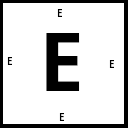
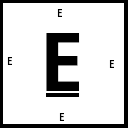
mirrors working

Changed region(s): [[0.3438, 0.7188, 0.625, 0.7812]]

diff --git a/main.js b/main.js
@@ -72,7 +72,9 @@ const rHALF = Math.PI / 2.0;
 
 const directions = [
   {
+    // N
     mov: [0, 0, +1],
+    mirr: [1, 1, -1],
     mask: 0b000001,
     oppo: 0b111101,
     front: 0,
@@ -85,7 +87,9 @@ const directions = [
     roty: 0,
   },
   {
+    // S
     mov: [0, 0, -1],
+    mirr: [1, 1, -1],
     mask: 0b000010,
     oppo: 0b111110,
     front: 1,
@@ -98,7 +102,9 @@ const directions = [
     roty: Math.PI,
   },
   {
+    // W
     mov: [+1, 0, 0],
+    mirr: [-1, 1, 1],
     mask: 0b000100,
     oppo: 0b110111,
     front: 2,
@@ -111,7 +117,9 @@ const directions = [
     roty: +rHALF,
   },
   {
+    // E
     mov: [-1, 0, 0],
+    mirr: [-1, 1, 1],
     mask: 0b001000,
     oppo: 0b111011,
     front: 3,
@@ -124,7 +132,9 @@ const directions = [
     roty: -rHALF,
   },
   {
+    // UP
     mov: [0, +1, 0],
+    mirr: [1, -1, 1],
     mask: 0b010000,
     oppo: 0b011111,
     front: 4,
@@ -137,7 +147,9 @@ const directions = [
     roty: 0,
   },
   {
+    // DW
     mov: [0, -1, 0],
+    mirr: [1, -1, 1],
     mask: 0b100000,
     oppo: 0b101111,
     front: 5,
@@ -171,7 +183,7 @@ let cameradir = 0,
 
 let selcells = new Map();
 
-function getmesh(wallindex, cellid, dir, xp, yp, zp, mx,my,mz) {
+function getmesh(wallindex, cellid, dir, xp, yp, zp, mx,my,mz, offset) {
   let pool = meshpool[wallindex];
   if (pool === undefined) {
     pool = [];
@@ -191,11 +203,11 @@ function getmesh(wallindex, cellid, dir, xp, yp, zp, mx,my,mz) {
     mesh.userData.dirmask = dir.mask;
     mesh.visible = true;
   }
-  mesh.rotation.x = mz * dir.rotx;
-  mesh.rotation.y = mz * dir.roty;
-  mesh.position.x = -xp - 0.50 * dir.mov[0];
-  mesh.position.y = -yp - 0.50 * dir.mov[1];
-  mesh.position.z = -zp - 0.50 * dir.mov[2];
+  mesh.rotation.x = mz * my * dir.rotx;
+  mesh.rotation.y = mz * mx * dir.roty;
+  mesh.position.x = -xp - offset * dir.mov[0] * mx;
+  mesh.position.y = -yp - offset * dir.mov[1] * my;
+  mesh.position.z = -zp - offset * dir.mov[2] * mz;
   mesh.scale.x = mx;
   mesh.scale.y = my;
   mesh.scale.z = mz;
@@ -204,26 +216,29 @@ function getmesh(wallindex, cellid, dir, xp, yp, zp, mx,my,mz) {
   return mesh;
 }
 
-function scan(scanvalue, cellid, energy, dirmask, xp=0, yp=0, zp=0, mx=1, my=1, mz=1) {
-  if (energy <= 0) return;
-  energy--;
+const ViewDistanceSquared = ViewDistance * ViewDistance;
+
+function scan(scanvalue, cellid, dirmask, xp = 0, yp = 0, zp = 0, mx = 1, my = 1, mz = 1) {
+  
+  if (xp * xp + yp * yp + zp * zp > ViewDistanceSquared) return;
+
   let cell = world[cellid];
   if (cell.scanvalue == scanvalue) return;
   cell.scanvalue = scanvalue;
   const selected = selcells.get(cellid);
 
-  //console.log('cell',cellid, 'energy', energy, 'dirmask', dirmask.toString(2), 'xp',xp,'yp',yp,'zp',zp);
+  //console.log('cell',cellid, 'dirmask', dirmask.toString(2), 'xp',xp,'yp',yp,'zp',zp);
 
   directions.forEach((dir, dirid) => {
     if (dirmask & dir.mask) {
       let wallindex = cell.w[dirid];
       if (wallindex != 0) {
         //console.log('cellid',cellid,'dirid',dirid,'wall',wallindex, 'walls',walls[wallindex]);
-        getmesh(wallindex, cellid, dir, xp, yp, zp,mx,my,mz).layers.enable(1);
+        getmesh(wallindex, cellid, dir, xp, yp, zp,mx,my,mz,0.5).layers.enable(1);
 
         /*
-        if (dirid == 4 && birdeye && energy < 10) {
-          const test = getmesh("number" + energy, cellid, dir, xp, yp, zp, mx, my, mz);
+        if (dirid == 4 && birdeye) {
+          const test = getmesh("number" + energy, cellid, dir, xp, yp, zp, mx, my, mz,0.48);
           test.position.y = -0.49;
           test.scale.x = 1 / 16;
           test.scale.y = 1 / 16;
@@ -231,7 +246,7 @@ function scan(scanvalue, cellid, energy, dirmask, xp=0, yp=0, zp=0, mx=1, my=1, 
         */
 
         if (selected !== undefined && selected & dir.mask) {
-          getmesh(0, cellid, dir, xp, yp, zp,mx,my,mz).layers.disable(1);
+          getmesh(0, cellid, dir, xp, yp, zp,mx,my,mz, 0.49).layers.disable(1);
         }
       }
       
@@ -241,10 +256,11 @@ function scan(scanvalue, cellid, energy, dirmask, xp=0, yp=0, zp=0, mx=1, my=1, 
       {
         nextcell = cellid;  
         nextscan = frame++;
-        nextmask = directions[dir.back].oppo;
-        if (dir.mov[0] != 0) nextmx *= -1;
-        else if (dir.mov[1] != 0) nextmy *= -1;
-        else if (dir.mov[2] != 0) nextmz *= -1;
+        const back = directions[dir.back];
+        nextmask = (dirmask & back.oppo) | back.mask ;
+        nextmx *= dir.mirr[0];
+        nextmy *= dir.mirr[1];
+        nextmz *= dir.mirr[2];
       }
       else
       {
@@ -258,7 +274,6 @@ function scan(scanvalue, cellid, energy, dirmask, xp=0, yp=0, zp=0, mx=1, my=1, 
         scan(
           nextscan,
           nextcell,
-          energy,
           nextmask, 
           xp + mov[0] * mx,
           yp + mov[1] * my,
@@ -296,7 +311,7 @@ function redraw() {
 
   const startmask = directions[cameradir].oppo; /* 0b111111 per audio scan */
 
-  scan(frame++, cameracell, ViewDistance * 2, startmask, 0, 0, 0);
+  scan(frame++, cameracell, startmask);
 
 
   //console.log(meshpool);

diff --git a/README.md b/README.md
@@ -18,6 +18,6 @@ Controls (work in progress)
 - R/PAGE UP : look up
 - F/PAGE DOWN: look down
 - X : put a mirror on the wall you're facing
-
+- M : toggle bird-eye view
 
 
